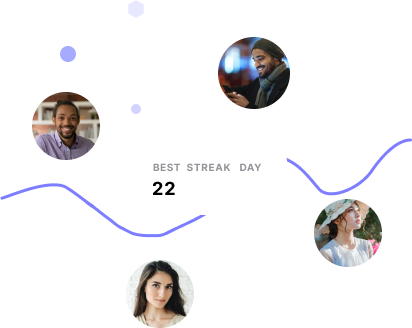
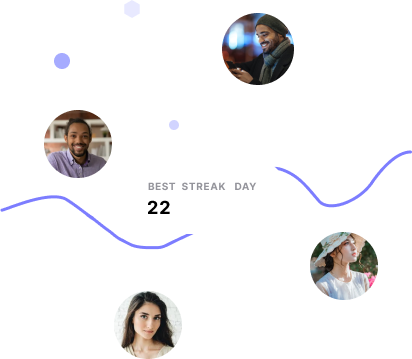
login_outline slider 1, 2, 3 with considering the screen width

diff --git a/lib/screens/login_outline.dart b/lib/screens/login_outline.dart
@@ -15,6 +15,8 @@ class _LoginOutlineState extends State<LoginOutline> {
 
   @override
   Widget build(BuildContext context) {
+    double screenHeight = MediaQuery.of(context).size.height;
+
     return Scaffold(
       body: Container(
         decoration: const BoxDecoration(
@@ -28,15 +30,14 @@ class _LoginOutlineState extends State<LoginOutline> {
             children: [
               Flexible(
                 flex: 3,
-                child: Container(
-                  child: Column(
-                    children: [
-                      SizedBox(
-                        child: slider(),
-                      ),
-                      // sliderIndicator(),
-                    ],
-                  ),
+                child: Column(
+                  children: [
+                    SizedBox(
+                      height: screenHeight / 1.3,
+                      child: slider(),
+                    ),
+                    sliderIndicator(),
+                  ],
                 ),
               ),
             ],
@@ -47,16 +48,19 @@ class _LoginOutlineState extends State<LoginOutline> {
   }
 
   Widget slider() {
+    double screenWidth = MediaQuery.of(context).size.width;
+    double screenHeight = MediaQuery.of(context).size.height;
+
     return CarouselSlider(
       carouselController: _controller,
       options: CarouselOptions(
           enableInfiniteScroll: true,
-          autoPlay: true,
+          autoPlay: false,
           autoPlayInterval: const Duration(
             seconds: 3,
           ),
           viewportFraction: 1,
-          height: MediaQuery.of(context).size.height,
+          height: screenHeight,
           onPageChanged: (index, reason) {
             setState(() {
               _current = index;
@@ -65,36 +69,121 @@ class _LoginOutlineState extends State<LoginOutline> {
             print(_current);
           }),
       items: [1, 2, 3].map((i) {
-        return Builder(
-          builder: (BuildContext context) {
-            if (i == 1) {
-              return Image.asset("assets/images/bgDecoration.png");
-            } else if (i == 2) {
-              return Image.asset("assets/images/bgDecoration3.png");
-            } else {
-              return Image.asset("assets/images/bgDecoration2.png");
-            }
-          },
+        return Padding(
+          padding: const EdgeInsets.symmetric(
+            horizontal: 30,
+          ),
+          child: Builder(
+            builder: (BuildContext context) {
+              if (i == 1) {
+                return Column(
+                  crossAxisAlignment: CrossAxisAlignment.start,
+                  children: [
+                    Flexible(
+                      flex: 3,
+                      child: Container(
+                        alignment: Alignment.bottomCenter,
+                        child: Image.asset("assets/images/bgDecoration.png"),
+                      ),
+                    ),
+                    Flexible(
+                      flex: 1,
+                      child: Container(
+                        alignment: Alignment.centerLeft,
+                        child: Text(
+                          "Create\nGood Habits",
+                          style: TextStyle(
+                            fontSize: screenWidth * 0.08,
+                            fontWeight: FontWeight.bold,
+                            color: Colors.white,
+                          ),
+                        ),
+                      ),
+                    ),
+                  ],
+                );
+              } else if (i == 2) {
+                return Column(
+                  crossAxisAlignment: CrossAxisAlignment.start,
+                  children: [
+                    Flexible(
+                      flex: 3,
+                      child: Container(
+                        alignment: Alignment.bottomCenter,
+                        child: Image.asset("assets/images/bgDecoration3.png"),
+                      ),
+                    ),
+                    Flexible(
+                      flex: 1,
+                      child: Container(
+                        alignment: Alignment.centerLeft,
+                        child: Text(
+                          "Track\nYour Progress",
+                          style: TextStyle(
+                            fontSize: screenWidth * 0.08,
+                            fontWeight: FontWeight.bold,
+                            color: Colors.white,
+                          ),
+                        ),
+                      ),
+                    ),
+                  ],
+                );
+              } else {
+                return Column(
+                  crossAxisAlignment: CrossAxisAlignment.start,
+                  children: [
+                    Flexible(
+                      flex: 3,
+                      child: Container(
+                        alignment: Alignment.bottomCenter,
+                        child: Image.asset("assets/images/bgDecoration2.png"),
+                      ),
+                    ),
+                    Flexible(
+                      flex: 1,
+                      child: Container(
+                        alignment: Alignment.centerLeft,
+                        child: Text(
+                          "Track\nYour Progress",
+                          style: TextStyle(
+                            fontSize: screenWidth * 0.08,
+                            fontWeight: FontWeight.bold,
+                            color: Colors.white,
+                          ),
+                        ),
+                      ),
+                    ),
+                  ],
+                );
+              }
+            },
+          ),
         );
       }).toList(),
     );
   }
 
   Widget sliderIndicator() {
-    return Row(
-      mainAxisAlignment: MainAxisAlignment.center,
-      children: [
-        for (int i = 0; i < 3; i++)
-          Container(
-            height: 12,
-            width: 12,
-            margin: const EdgeInsets.all(5),
-            decoration: BoxDecoration(
-              color: _current == i ? ColorTheme.infoBlue : Colors.white,
-              shape: BoxShape.circle,
+    return Padding(
+      padding: const EdgeInsets.symmetric(
+        horizontal: 30,
+      ),
+      child: Row(
+        mainAxisAlignment: MainAxisAlignment.start,
+        children: [
+          for (int i = 0; i < 3; i++)
+            Container(
+              height: 12,
+              width: 12,
+              margin: const EdgeInsets.all(5),
+              decoration: BoxDecoration(
+                color: _current == i ? ColorTheme.infoBlue : Colors.white,
+                shape: BoxShape.circle,
+              ),
             ),
-          ),
-      ],
+        ],
+      ),
     );
   }
 }
